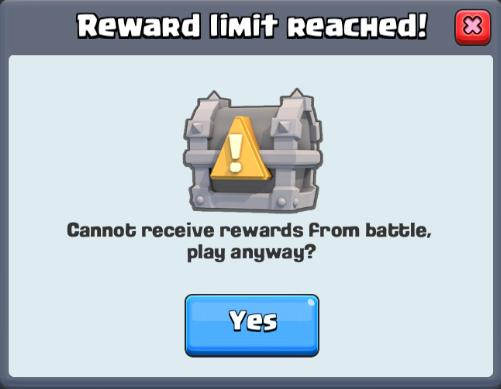
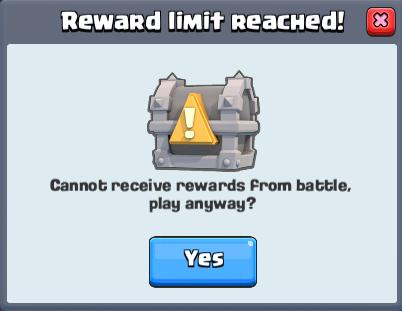
Added rewardLimitReached.jpeg

diff --git a/ClashRoyalePlayer/src/clashroyaleplayer/app/Main.java b/ClashRoyalePlayer/src/clashroyaleplayer/app/Main.java
@@ -28,8 +28,9 @@ public class Main {
 
 			// findPosInWnd();
 			// ImageCapturer capt = new ImageCapturer();
-			// BufferedImage img = capt.captureImage(new Rectangle(28, 639, 95, 80));
-			// capt.saveImage(img, "images/", "lockedMagicChest", "jpg");
+			// BufferedImage img = capt.captureImage(new Rectangle(39, 274, 402,
+			// 311));
+			// capt.saveImage(img, "images/", "rewardLimitReached", "jpg");
 
 			AutoPlayer player = new AutoPlayer();
 			player.start();
@@ -50,6 +51,7 @@ public class Main {
 	// elisir: 136, 790, 30, 20
 	// okButton: 190, 713, 102, 42
 	// lowBarArenaInfo: 3, 758, 474, 67
+	// rewardLimitReached: 39, 274, 402, 311
 	// Method that prints the mouse position relative to the Nox window
 	@SuppressWarnings("unused")
 	private static void findPosInWnd() {
